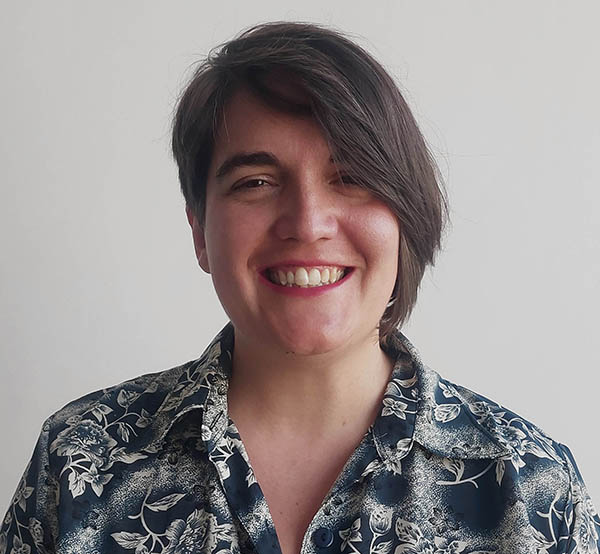
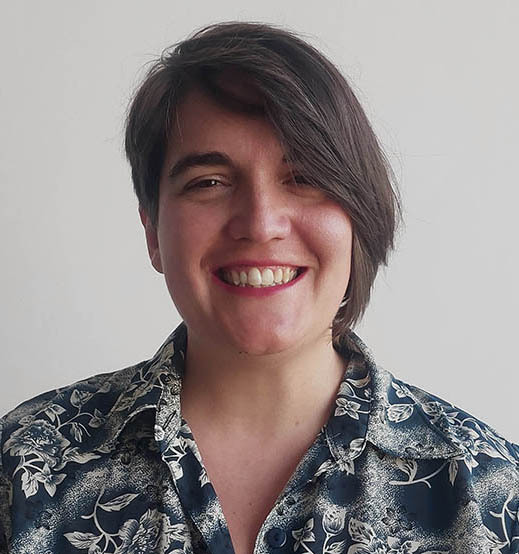
images

diff --git a/src/html/index.html b/src/html/index.html
@@ -27,15 +27,15 @@
       <div class="who-title-father">
         <h2 class="who-title">Quiénes somos</h2>
       </div>
-          <include src="./partials/members.html" articleclass="left" alt="Ana Vellisco" name="Ana Vellisco" description="Lorem, ipsum dolor sit amet consectetur adipisicing elit. Non commodi iure esse eos aut, dicta numquam quis nesciunt dignissimos nemo tenetur natus quidem, enim porro, ex facere. Earum, accusamus est?"
+          <include src="./partials/members.html" articleclass="left" imgsrc="./assets/images/ana.jpg" alt="Ana Vellisco" name="Ana Vellisco" description="Lorem, ipsum dolor sit amet consectetur adipisicing elit. Non commodi iure esse eos aut, dicta numquam quis nesciunt dignissimos nemo tenetur natus quidem, enim porro, ex facere. Earum, accusamus est?"
            githuburl="https://github.com/avbbs" email="ana.vellisco@gmail.com">
           </include>
-          <include src="./partials/members.html" articleclass="right" alt="Bruna Da Silva" name="Bruna Da Silva" description="Lorem, ipsum dolor sit amet consectetur adipisicing elit. Non commodi iure esse eos aut, dicta numquam quis nesciunt dignissimos nemo tenetur natus quidem, enim porro, ex facere. Earum, accusamus est?"
+          <include src="./partials/members.html" articleclass="right" imgsrc="./assets/images/bruna.jpeg" alt="Bruna Da Silva" name="Bruna Da Silva" description="Lorem, ipsum dolor sit amet consectetur adipisicing elit. Non commodi iure esse eos aut, dicta numquam quis nesciunt dignissimos nemo tenetur natus quidem, enim porro, ex facere. Earum, accusamus est?"
             twitterurl="https://twitter.com/brunadasilvabz"
             linkedinurl="https://www.linkedln.com/in/bruna-da-silva-barrozo-b6064923a/"
             githuburl="https://github.com/brunadasilvabz" email="">
           </include>
-          <include src="./partials/members.html" articleclass="left" alt="Natalia Gómez" name="Natalia Gómez" description="Lorem, ipsum dolor sit amet consectetur adipisicing elit. Non commodi iure esse eos aut, dicta numquam quis nesciunt dignissimos nemo tenetur natus quidem, enim porro, ex facere. Earum, accusamus est?"
+          <include src="./partials/members.html" articleclass="left" imgsrc="./assets/images/natalia3.jpg" alt="Natalia Gómez" name="Natalia Gómez" description="Lorem, ipsum dolor sit amet consectetur adipisicing elit. Non commodi iure esse eos aut, dicta numquam quis nesciunt dignissimos nemo tenetur natus quidem, enim porro, ex facere. Earum, accusamus est?"
             twitterurl="" linkedinurl="" githuburl="https://github.com/Natalia-GP" email="natgp86@gmail.com">
           </include>
           <include src="./partials/members.html" articleclass="right" imgsrc="./assets/images/foto-sofia.jpg" alt="Sofía Gracia" name="Sofía Gracia" 

diff --git a/src/scss/layout/_members.scss b/src/scss/layout/_members.scss
@@ -77,13 +77,15 @@
 }
 
 
-.img {
+.img{
+    overflow: none;
     width: 180px;
+    height: 180px;
     border-radius: 4px;
     border: solid 5px rgba(0, 0, 0, 0.08) ;
     @include tablet {
        margin:0 1rem 0 1rem;
-       width: 30%;
+       width: 20%;
     }
 }
 

diff --git a/src/scss/main.scss b/src/scss/main.scss
@@ -13,7 +13,9 @@
 @import 'layout/members';
 @import 'layout/footer';
 
-
+:root{
+    overflow-x: hidden;
+}
 
 
 
